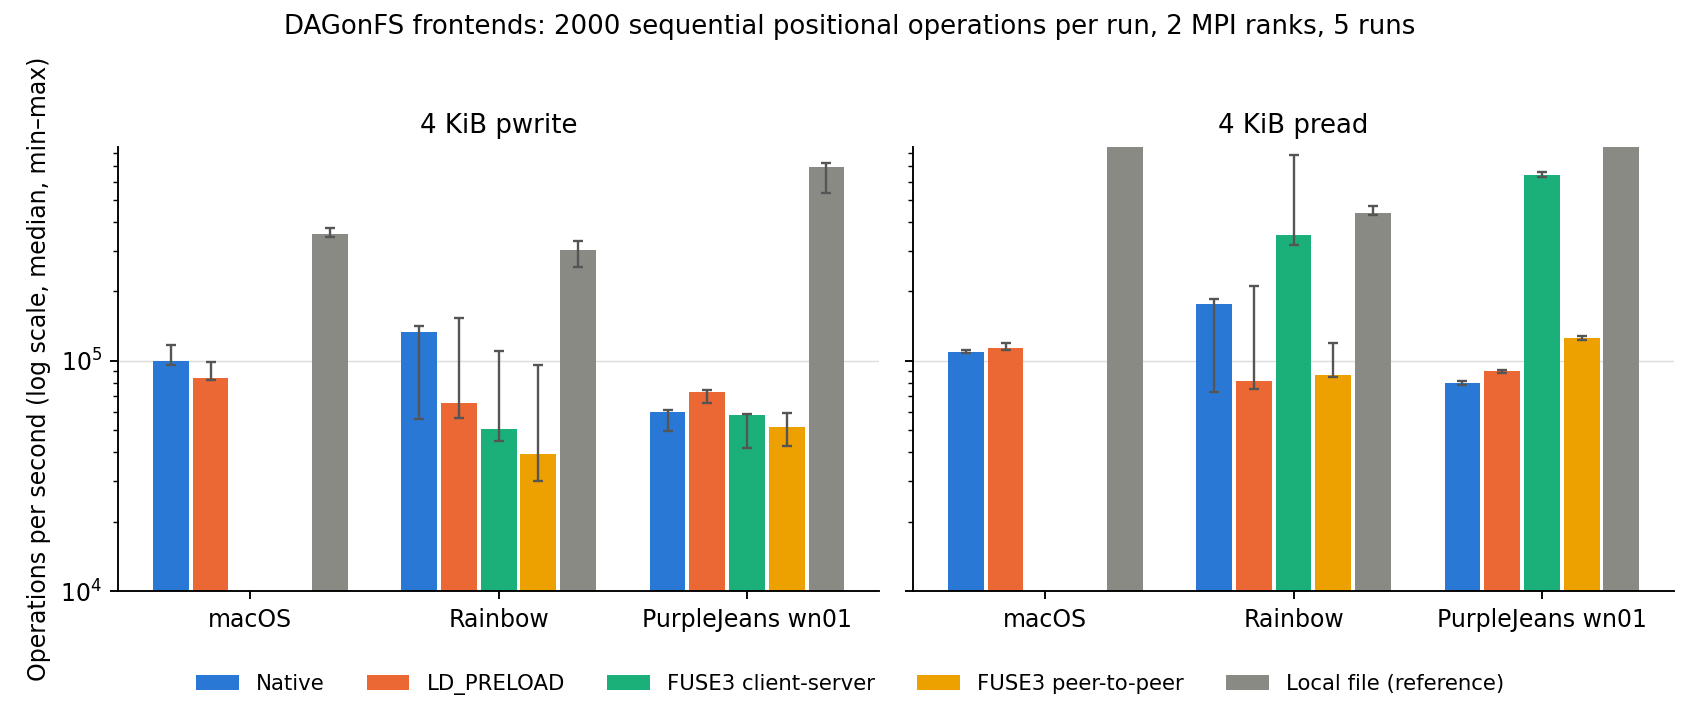
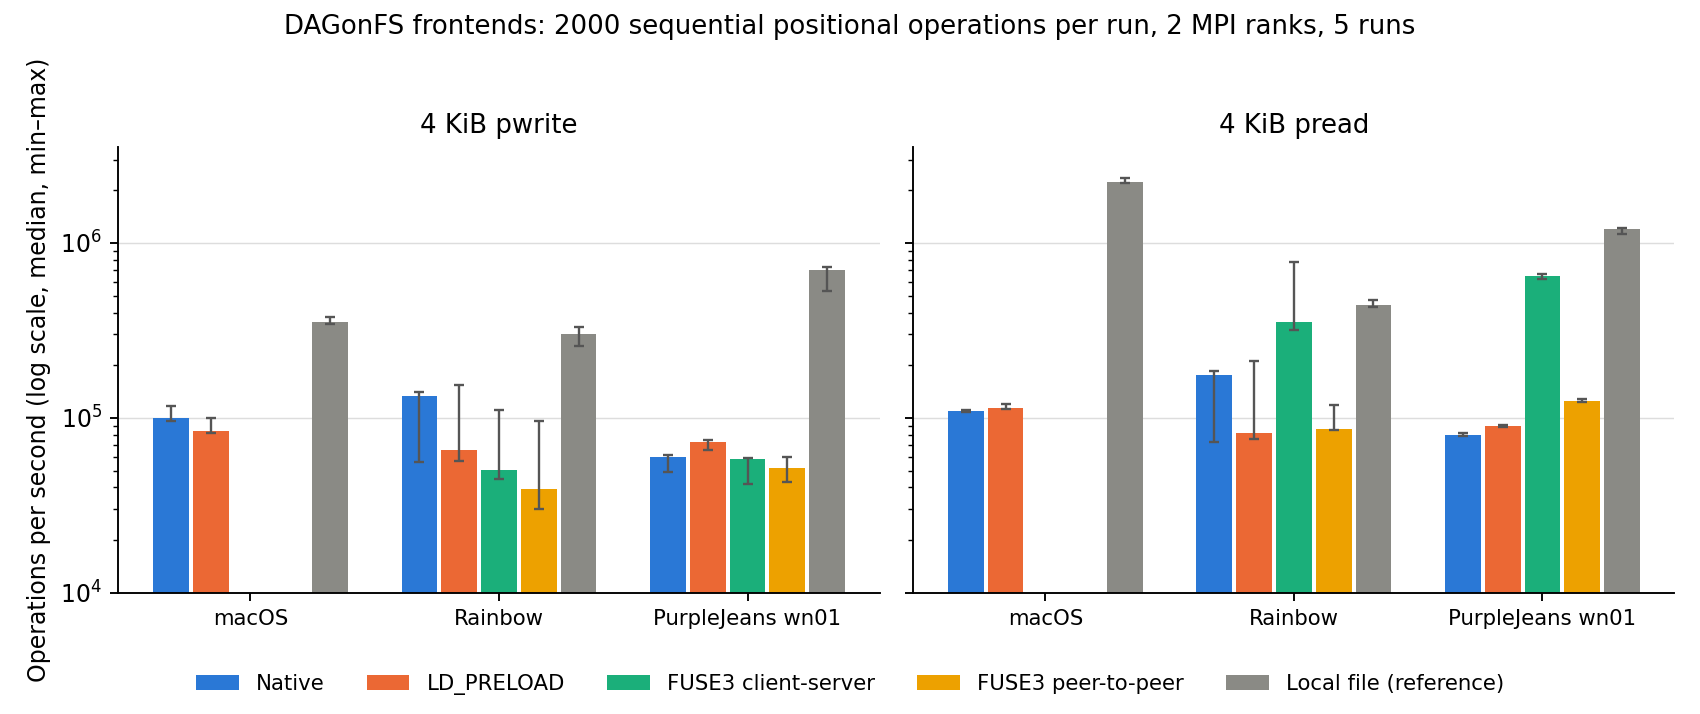
Compare frontends with the FUSE3-only build; fix compute-node hardware
Interleaved run on wn04 (Slurm job 19788) of this morning's FUSE3-only
build (19ce8b8) and the current build: FUSE3 is unchanged within 2%,
native and preload write 1.7-1.9x faster than FUSE3, FUSE3
client-server reads stay 4.5-5x faster. The low-wn nodes are Xeon Gold
5218, not the login node's EPYC. Plot labels wrap and the y-axis fits
every bar.

diff --git a/bench/plot_frontends.py b/bench/plot_frontends.py
@@ -55,14 +55,17 @@ def main():
                 high.append(max(values) - median)
             ax.bar(xs, medians, width=width * 0.9, color=COLOURS[index], label=label,
                    yerr=[low, high], error_kw={"elinewidth": 1, "capsize": 2, "ecolor": "#555"})
-        ax.set_xticks(range(len(results)), [r["label"] for r in results])
+        # "\n" in a label (written "\\n" on the command line) breaks it into lines.
+        ax.set_xticks(range(len(results)), [r["label"].replace("\\n", "\n") for r in results], fontsize=9)
         ax.set_yscale("log")
-        ax.set_ylim(bottom=1e4)
         ax.set_title(f"{results[0]['size'] // 1024} KiB {operation}", fontsize=11)
         ax.grid(axis="y", color="#ddd", linewidth=0.6)
         ax.set_axisbelow(True)
         for side in ("top", "right"):
             ax.spines[side].set_visible(False)
+    # Set after both panels are drawn, so the shared top fits every bar.
+    top = max(max(v) for r in results for k, _ in MODES if k in r for v in r[k].values())
+    axes[0].set_ylim(1e4, top * 1.5)
     axes[0].set_ylabel("Operations per second (log scale, median, min–max)")
     handles, labels = axes[0].get_legend_handles_labels()
     fig.legend(handles, labels, loc="lower center", ncol=len(labels), frameon=False, fontsize=9)

diff --git a/docs/PERFORMANCE-FRONTENDS.md b/docs/PERFORMANCE-FRONTENDS.md
@@ -37,10 +37,47 @@ python3 bench/plot_frontends.py figures/OUT.png RESULT.json=LABEL ...
 |---|---|---|---|
 | macOS | Apple M4 Max | macOS 26, Open MPI 5.0 | no `/dev/fuse`: native, preload and local only |
 | Rainbow | AMD Ryzen 9 9900X, 12 cores | Ubuntu, kernel 6.17, GCC 13, Open MPI 4.1.6, libfuse 3.14 | shared workstation, load average ≈ 12 during the runs |
-| PurpleJeans wn01 | AMD EPYC 9124, 16 cores | RHEL 8, GCC 12.2.1, Open MPI 4.1.4 | Slurm `low-wn` node, jobs 19750 (before), 19770 and 19771 (after) |
+| PurpleJeans `low-wn` | 2 × Intel Xeon Gold 5218, 32 cores | Rocky Linux 8.10, GCC 12.2.1, Open MPI 4.1.4 | wn01: jobs 19750 (before), 19770 and 19771 (after); wn04: job 19788 (versus FUSE3-only) |
 
 Sunbow (`193.205.230.23`) was reachable but has no MPI or CMake in its default
 environment, so it has no results.
+
+## Versus the FUSE3-only implementation
+
+The same probe compares the current build (`8422144`) with the FUSE3-only
+build of this morning (`19ce8b8`, before the native and preload frontends were
+added). Both were built from clean trees with the same compiler, flags,
+libfuse and MPI, and run in one exclusive Slurm job on wn04 (job 19788): after
+a warm-up, each of five rounds runs every mode of both builds once, so the
+builds see the same node state. Medians in thousands of operations per second,
+with the ratio to this morning's FUSE3 client-server volume:
+
+| Build, mode | `pwrite` | vs. morning | `pread` | vs. morning |
+|---|---:|---:|---:|---:|
+| this morning, FUSE3 client-server | 37.5 | 1.00 | 416.8 | 1.00 |
+| this morning, FUSE3 peer-to-peer | 37.1 | 0.99 | 70.1 | 0.17 |
+| current, FUSE3 client-server | 36.9 | 0.98 | 416.0 | 1.00 |
+| current, FUSE3 peer-to-peer | 36.9 | 0.98 | 68.8 | 0.17 |
+| current, native | 63.6 | **1.69** | 83.7 | 0.20 |
+| current, preload | 69.6 | **1.85** | 93.5 | 0.22 |
+| local file (reference) | 586.0 | 15.6 | 1,241.5 | 3.0 |
+
+![Current build versus the FUSE3-only build](../figures/frontends-vs-fuse3-only-20261116.png)
+
+- **FUSE3 is unchanged.** Both models perform the same in both builds (within
+  2%, well inside the run-to-run spread): adding the frontends cost the FUSE
+  path nothing, as expected, since its code did not change on Linux.
+- **The socket frontends write 1.7–1.9× faster than FUSE3** on this node: one
+  socket round trip replaces a trip through the kernel's FUSE queue.
+- **FUSE3 client-server still reads 4.5–5× faster** thanks to the kernel page
+  cache; the socket frontends read 1.2–1.3× faster than FUSE3 peer-to-peer,
+  which runs without that cache.
+
+An earlier, non-interleaved job (19783, wn02) showed the current FUSE3 build
+1.6× faster than the morning build. That job ran each build's modes in
+separate blocks, and the current build's FUSE runs came after the native and
+preload runs; a strict alternation of the two builds (job 19785) removed the
+difference. Compare builds only with interleaved runs.
 
 ## Persistent connections: before and after (100 operations)
 
@@ -107,3 +144,4 @@ Findings:
 | `bench/results/frontends-macos-20261116.json`, `frontends-rainbow-20261116.json`, `frontends-purplejeans-20261116.json` | before (protocol version 1), 100 operations |
 | `bench/results/frontends-*-20261116-v2-100ops.json` | after, 100 operations |
 | `bench/results/frontends-*-20261116-v2.json` | after, 2,000 operations |
+| `bench/results/frontends-wn04-19788-morning.json`, `frontends-wn04-19788-today.json` | FUSE3-only build versus current build, interleaved, 2,000 operations |
